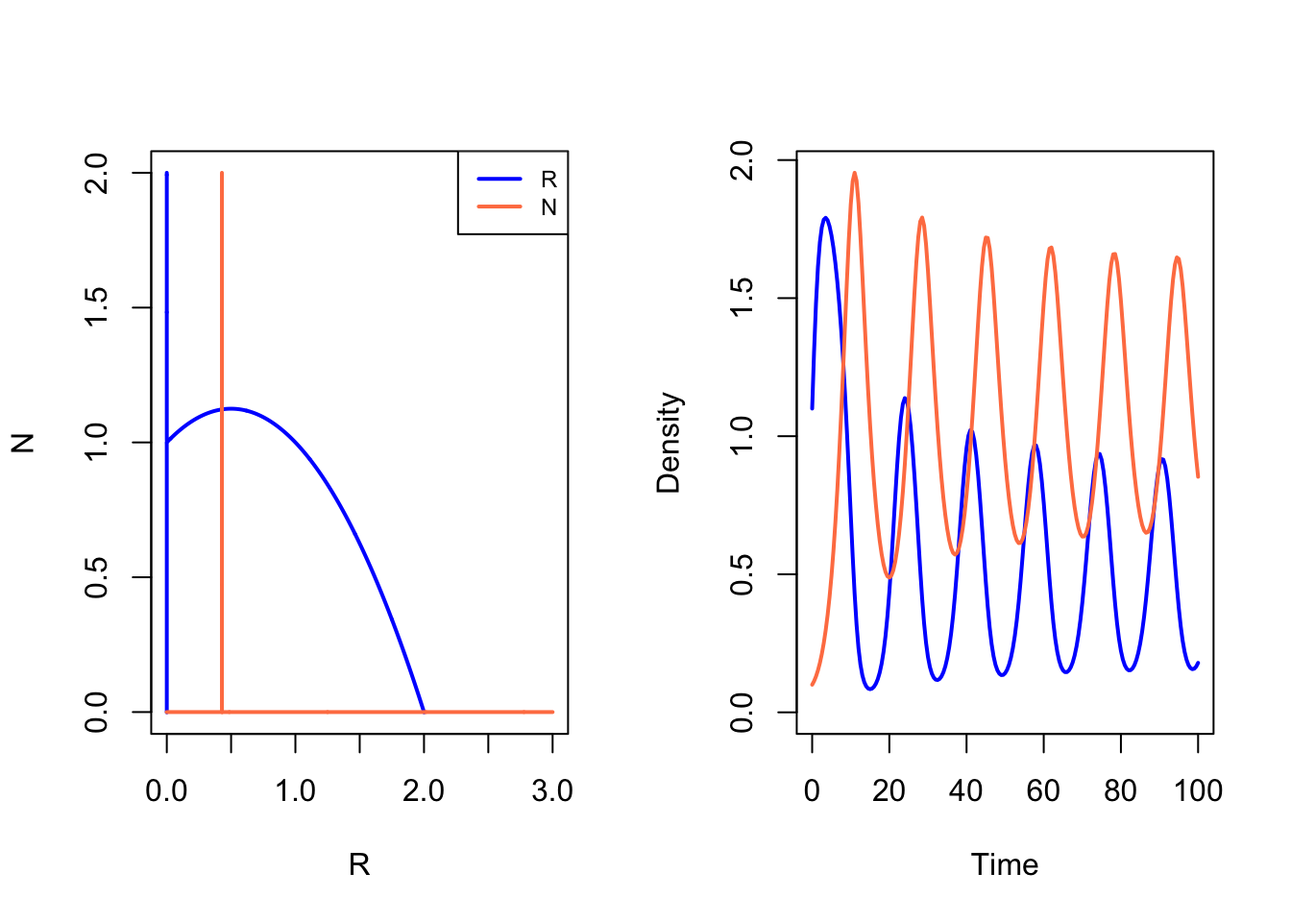
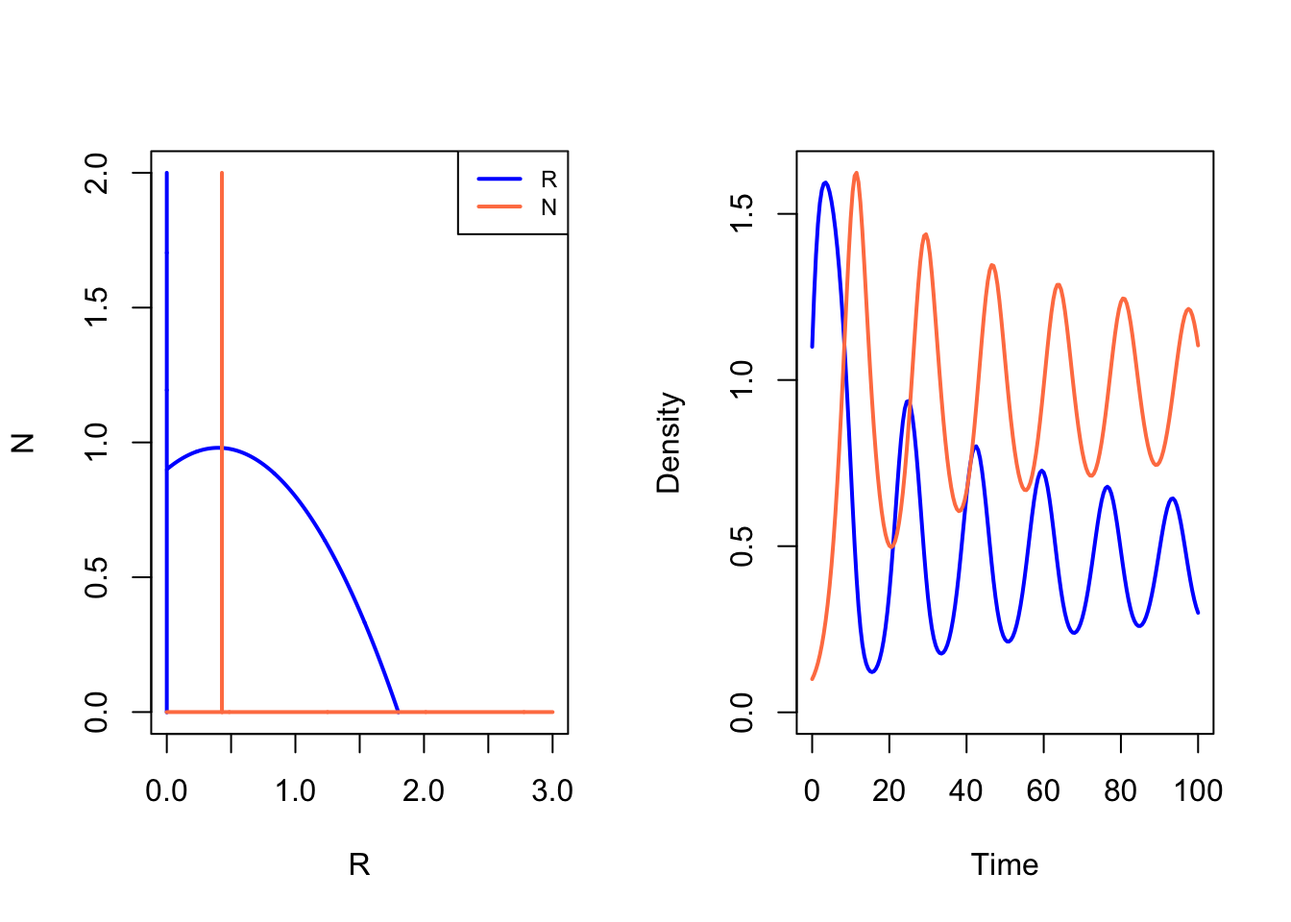
Dispatch book 2025-02-22

diff --git a/Modellen/odes_grind.html b/Modellen/odes_grind.html
@@ -526,7 +526,7 @@ window.Quarto = {
    // }
 </script>
 <p>In <a href="predatorprooi.html" class="quarto-xref"><span>14&nbsp; Predator-prooi interacties</span></a> hebben we een heel beroemd model uit de biologie geanalyseerd: het <em>Lotka-Volterra predator-prooi model</em>. Dit model gaat natuurlijk niet specifiek over konijnen en vossen, maar zou op allerlei systemen toegepast kunnen worden: bacteriofagen die bacteriën infecteren, protozoa die bacteriën eten, lieveheersbeestjes die bladluizen eten, vleermuizen die motjes eten, <em>etc.</em> Naast het predator-prooi model bestaat er ook het <em>Lotka-Volterra competitie model</em> (waar we in het volgende hoofdstuk naar gaan kijken). Zodoende is het Lotka-Volterra model uitgegroeid tot één van de meest veelzijdige modellen in de biologie, waarmee voorspellingen gedaan kunnen worden over welke soorten wel/niet kunnen samenleven.</p>
-<p>We hebben gezien hoe met behulp van faseruimtes het relatief eenvoudig kan zijn om inzicht in een biologisch proces te vergaten. Maar de eenvoud van deze eerdere analyses is deels te verklaren door de eenvoud van het model dat we hebben gebruikt. Hoe meer interacties we willen begrijpen, hoe moeilijker het zal worden om met pen en papier te werk te gaan. Daarom gaan we leren om ODEs door te rekenen met het Rscript <code>grind.R</code>, waarmee je eenvoudig faseruimtes en grafiekjes van de dynamica van variabelen kan plotten.</p>
+<p>We hebben gezien hoe met behulp van faseruimtes het relatief eenvoudig kan zijn om inzicht in een biologisch proces te vergaren. Maar de eenvoud van deze eerdere analyses is deels te verklaren door de eenvoud van het model dat we hebben gebruikt. Hoe meer interacties we willen begrijpen, hoe moeilijker het zal worden om met pen en papier te werk te gaan. Daarom gaan we leren om ODEs door te rekenen met het Rscript <code>grind.R</code>, waarmee je eenvoudig faseruimtes en grafiekjes van de dynamica van variabelen kan plotten.</p>
 <div class="quarto-figure quarto-figure-center">
 <figure class="figure">
 <div class="quarto-figure quarto-figure-center">
@@ -551,13 +551,13 @@ window.Quarto = {
 <p>In ons eerdere Lotka-Volterra model namen we aan dat predatie lineair proportioneel is aan de dichtheden van de predator en prooi. Dit deden we door gebruik te maken van een simpele predatieterm: <span class="math inline">\(aRN\)</span>. Mede dankzij deze eenvoud waren de nullclines zo eenvoudig: een stel rechte lijnen waarvan het makkelijk te bepalen is waar/of ze snijden. Echter heeft deze eenvoud ook zijn beperkingen. Dit lineaire verband betekent dat per predator (ookwel: <em>per capita</em>) in totaal <span class="math inline">\(aR\)</span> prooi gegeten kan worden (nogmaals, “per” kun je lezen als “gedeeld door”, dus <span class="math inline">\(\frac{aRN}{N} = aR\)</span>). Bij oneindig hoge prooidichtheden, kan elke predator dus oneindig veel prooi eten. In het echt zal een predator eigenlijk een tijd bezig zijn met het verwerken en verteren van de prooi. Zodoende zal de predatie-term bij hele hoge prooi-dichtheden eigenlijk moeten verzadigen. Om dit te bestuderen met ons model, zouden we de predatie-term aan kunnen passen:</p>
 <p><span class="math display">\[\begin{align*}
 \frac{\mathrm{d}\color{#2a53f7}R}{\mathrm{d}t} &amp;= \underbrace{b(1-\frac{\color{#2a53f7}R}{K})\color{#2a53f7}R}_{\text{geboorte prooi}} - \underbrace{d\color{#2a53f7}R}_{\text{sterfte prooi}} - \underbrace{\frac{\color{black}a\color{#2a53f7}R\color{orange}N}{h+\color{#2a53f7}R}}_{\text{nieuwe predatieterm}}\\
-\frac{\mathrm{d}\color{orange}N}{\mathrm{d}t} &amp;= \underbrace{\frac{a\color{#2a53f7}R\color{orange}N}{h+\color{#2a53f7}R\color{black}}}_{\text{geboorte predator}} - \underbrace{\delta \color{orange}N}_{\text{sterfte predator}}
+\frac{\mathrm{d}\color{orange}N}{\mathrm{d}t} &amp;= \underbrace{\frac{c*a\color{#2a53f7}R\color{orange}N}{h+\color{#2a53f7}R\color{black}}}_{\text{geboorte predator}} - \underbrace{\delta \color{orange}N}_{\text{sterfte predator}}
 \end{align*}\]</span></p>
 <p>Wat is met deze nieuwe predator-term de <em>per capita</em> predatie? Dat wil zeggen: hoeveel prooi kan een enkele predator per tijdseenheid opeten? Hiervoor delen we wederom de predatie-term door <span class="math inline">\(N\)</span>, waardoor we functie <span class="math inline">\(\frac{aR}{h+R}\)</span> krijgen. Deze functie wordt de <strong>functionele respons</strong> van de predator genoemd. Om een beeld van deze functie te krijgen, is het handig om deze even te schetsen.</p>
 </section>
 <section id="vorm-van-de-nieuwe-predatieterm" class="level2">
 <h2 class="anchored" data-anchor-id="vorm-van-de-nieuwe-predatieterm">Vorm van de nieuwe predatieterm</h2>
-<p>Laten we eerst even naar de noemer te kijken, en vooral naarde balans tussen <span class="math inline">\(h\)</span> en <span class="math inline">\(R\)</span>. Als <span class="math inline">\(R\)</span> heel klein is, heeft <span class="math inline">\(h\)</span> de overhand in de noemer, waardoor <span class="math inline">\(R\)</span> verwaarloosbaar is. Dus voor kleine <span class="math inline">\(R\)</span> nadert de functie <span class="math inline">\(\frac{aR}{h}\)</span>, wat een lineaire toename is. Dus voor kleine prooi-dichtheden, neemt predatie lineair toe met de prooi-dichtheid, net zoals in het eerdere model. Maar als <span class="math inline">\(R\)</span> alsmaar groter wordt, wordt <span class="math inline">\(h\)</span> juist verwaarloosbaar ten opzichte van <span class="math inline">\(R\)</span>. Daarom nadert deze functie bij hoge <span class="math inline">\(R\)</span> de waarde <span class="math inline">\(\frac{aR}{R} = a\)</span>. Dus: zelfs bij hele hoge prooidichtheiden kan een enkele predator per tijdseenheid (bijv. per dag) hoogstens <span class="math inline">\(a\)</span> prooi eten. Tussen deze twee extreme waarden zit nog een laatste bijzondere punt: het punt waar <span class="math inline">\(R\)</span> precies gelijk is aan <span class="math inline">\(h\)</span>. Op dit punt is de functie gelijk aan <span class="math inline">\(\frac{aR}{R+R}=\frac{aR}{2R}=\frac{a}{2}\)</span>. De parameter <span class="math inline">\(h\)</span> geeft dus de prooi-dichtheid waar de predatieterm half-maximaal is. Nu kunnen we de functie schetsen, zoals weergegeven in <a href="#fig-predatieterm-1" class="quarto-xref">Figuur&nbsp;<span>1 (a)</span></a>.</p>
+<p>Laten we eerst even naar de noemer te kijken, en vooral naar de balans tussen <span class="math inline">\(h\)</span> en <span class="math inline">\(R\)</span>. Als <span class="math inline">\(R\)</span> heel klein is, heeft <span class="math inline">\(h\)</span> de overhand in de noemer, waardoor <span class="math inline">\(R\)</span> verwaarloosbaar is. Dus voor kleine <span class="math inline">\(R\)</span> nadert de functie <span class="math inline">\(\frac{aR}{h}\)</span>, wat een lineaire toename is. Dus voor kleine prooi-dichtheden, neemt predatie lineair toe met de prooi-dichtheid, net zoals in het eerdere model. Maar als <span class="math inline">\(R\)</span> alsmaar groter wordt, wordt <span class="math inline">\(h\)</span> juist verwaarloosbaar ten opzichte van <span class="math inline">\(R\)</span>. Daarom nadert deze functie bij hoge <span class="math inline">\(R\)</span> de waarde <span class="math inline">\(\frac{aR}{R} = a\)</span>. Dus: zelfs bij hele hoge prooidichtheiden kan een enkele predator per tijdseenheid (bijv. per dag) hoogstens <span class="math inline">\(a\)</span> prooi eten. Tussen deze twee extreme waarden zit nog een laatste bijzondere punt: het punt waar <span class="math inline">\(R\)</span> precies gelijk is aan <span class="math inline">\(h\)</span>. Op dit punt is de functie gelijk aan <span class="math inline">\(\frac{aR}{R+R}=\frac{aR}{2R}=\frac{a}{2}\)</span>. De parameter <span class="math inline">\(h\)</span> geeft dus de prooi-dichtheid waar de predatieterm half-maximaal is. Nu kunnen we de functie schetsen, zoals weergegeven in <a href="#fig-predatieterm-1" class="quarto-xref">Figuur&nbsp;<span>1 (a)</span></a>.</p>
 </section>
 <section id="hill-functies" class="level2">
 <h2 class="anchored" data-anchor-id="hill-functies">Hill-functies</h2>
@@ -740,7 +740,7 @@ Tip&nbsp;1: Veel gebruikte Hill-functies
 <div class="cell">
 <div class="sourceCode cell-code" id="cb6"><pre class="sourceCode numberSource r number-lines code-with-copy"><code class="sourceCode r"><span id="cb6-1"><a href="#cb6-1"></a>model <span class="ot">&lt;-</span> <span class="cf">function</span>(t, state, parms) {</span>
 <span id="cb6-2"><a href="#cb6-2"></a>  <span class="fu">with</span>(<span class="fu">as.list</span>(<span class="fu">c</span>(state,parms)), {</span>
-<span id="cb6-3"><a href="#cb6-3"></a>    dR <span class="ot">&lt;-</span> r<span class="sc">*</span>R<span class="sc">*</span>(<span class="dv">1</span> <span class="sc">-</span> R<span class="sc">/</span>K) <span class="sc">-</span> a<span class="sc">*</span>R<span class="sc">*</span>N<span class="sc">/</span>(R<span class="sc">+</span>h)</span>
+<span id="cb6-3"><a href="#cb6-3"></a>    dR <span class="ot">&lt;-</span> b<span class="sc">*</span>R<span class="sc">*</span>(<span class="dv">1</span> <span class="sc">-</span> R<span class="sc">/</span>K) <span class="sc">-</span>d<span class="sc">*</span>R <span class="sc">-</span> a<span class="sc">*</span>R<span class="sc">*</span>N<span class="sc">/</span>(R<span class="sc">+</span>h)</span>
 <span id="cb6-4"><a href="#cb6-4"></a>    dN <span class="ot">&lt;-</span> c<span class="sc">*</span>a<span class="sc">*</span>R<span class="sc">*</span>N<span class="sc">/</span>(R<span class="sc">+</span>h) <span class="sc">-</span> delta<span class="sc">*</span>N</span>
 <span id="cb6-5"><a href="#cb6-5"></a>    <span class="fu">return</span>(<span class="fu">list</span>(<span class="fu">c</span>(dR, dN)))  </span>
 <span id="cb6-6"><a href="#cb6-6"></a>  }) </span>
@@ -748,7 +748,7 @@ Tip&nbsp;1: Veel gebruikte Hill-functies
 </div>
 <p>En vervolgens geef je de parameters en begin-waarden (<em>initial condition</em>) voor de variabelen aan:</p>
 <div class="cell">
-<div class="sourceCode cell-code" id="cb7"><pre class="sourceCode r code-with-copy"><code class="sourceCode r"><span id="cb7-1"><a href="#cb7-1" aria-hidden="true" tabindex="-1"></a>p <span class="ot">&lt;-</span> <span class="fu">c</span>(<span class="at">r=</span><span class="dv">1</span>,<span class="at">K=</span><span class="dv">1</span>,<span class="at">a=</span><span class="dv">1</span>,<span class="at">c=</span><span class="dv">1</span>,<span class="at">delta=</span><span class="fl">0.3</span>,<span class="at">c=</span><span class="dv">1</span>,<span class="at">h=</span><span class="dv">1</span>)  <span class="co">#parameters</span></span>
+<div class="sourceCode cell-code" id="cb7"><pre class="sourceCode r code-with-copy"><code class="sourceCode r"><span id="cb7-1"><a href="#cb7-1" aria-hidden="true" tabindex="-1"></a>p <span class="ot">&lt;-</span> <span class="fu">c</span>(<span class="at">b=</span><span class="dv">1</span>,<span class="at">d=</span><span class="fl">0.01</span>,<span class="at">K=</span><span class="dv">1</span>,<span class="at">a=</span><span class="dv">1</span>,<span class="at">c=</span><span class="dv">1</span>,<span class="at">delta=</span><span class="fl">0.3</span>,<span class="at">c=</span><span class="dv">1</span>,<span class="at">h=</span><span class="dv">1</span>)  <span class="co">#parameters</span></span>
 <span id="cb7-2"><a href="#cb7-2" aria-hidden="true" tabindex="-1"></a>s <span class="ot">&lt;-</span> <span class="fu">c</span>(<span class="at">R=</span><span class="fl">1.1</span>,<span class="at">N=</span><span class="fl">0.25</span>) <span class="co">#begin-dichtheden van R en N  </span></span>
 <span id="cb7-3"><a href="#cb7-3" aria-hidden="true" tabindex="-1"></a>colors[<span class="dv">1</span>] <span class="ot">=</span> <span class="st">"blue"</span></span>
 <span id="cb7-4"><a href="#cb7-4" aria-hidden="true" tabindex="-1"></a>colors[<span class="dv">2</span>] <span class="ot">=</span> <span class="st">"#FF7F50"</span></span></code><button title="Kopieer naar klembord" class="code-copy-button"><i class="bi"></i></button></pre></div>
@@ -844,12 +844,12 @@ NULL</code></pre>
 <div class="cell">
 <div class="sourceCode cell-code" id="cb17"><pre class="sourceCode numberSource r number-lines code-with-copy"><code class="sourceCode r"><span id="cb17-1"><a href="#cb17-1"></a>model <span class="ot">&lt;-</span> <span class="cf">function</span>(t, state, parms) {</span>
 <span id="cb17-2"><a href="#cb17-2"></a>  <span class="fu">with</span>(<span class="fu">as.list</span>(<span class="fu">c</span>(state,parms)), {</span>
-<span id="cb17-3"><a href="#cb17-3"></a>    dR <span class="ot">&lt;-</span> r<span class="sc">*</span>R<span class="sc">*</span>(<span class="dv">1</span> <span class="sc">-</span> R<span class="sc">/</span>K) <span class="sc">-</span> a<span class="sc">*</span>R<span class="sc">*</span>N<span class="sc">/</span>(R<span class="sc">+</span>h)</span>
+<span id="cb17-3"><a href="#cb17-3"></a>    dR <span class="ot">&lt;-</span> b<span class="sc">*</span>R<span class="sc">*</span>(<span class="dv">1</span> <span class="sc">-</span> R<span class="sc">/</span>K) <span class="sc">-</span> d<span class="sc">*</span>R <span class="sc">-</span> a<span class="sc">*</span>R<span class="sc">*</span>N<span class="sc">/</span>(R<span class="sc">+</span>h)</span>
 <span id="cb17-4"><a href="#cb17-4"></a>    dN <span class="ot">&lt;-</span> c<span class="sc">*</span>a<span class="sc">*</span>R<span class="sc">*</span>N<span class="sc">/</span>(R<span class="sc">+</span>h) <span class="sc">-</span> delta<span class="sc">*</span>N</span>
 <span id="cb17-5"><a href="#cb17-5"></a>    <span class="fu">return</span>(<span class="fu">list</span>(<span class="fu">c</span>(dR, dN)))  </span>
 <span id="cb17-6"><a href="#cb17-6"></a>  }) </span>
 <span id="cb17-7"><a href="#cb17-7"></a>}  </span>
-<span id="cb17-8"><a href="#cb17-8"></a>p <span class="ot">&lt;-</span> <span class="fu">c</span>(<span class="at">r=</span><span class="dv">1</span>,<span class="at">K=</span><span class="dv">2</span>,<span class="at">a=</span><span class="dv">1</span>,<span class="at">c=</span><span class="dv">1</span>,<span class="at">delta=</span><span class="fl">0.3</span>,<span class="at">c=</span><span class="dv">1</span>,<span class="at">h=</span><span class="dv">1</span>)  <span class="co">#parameters</span></span>
+<span id="cb17-8"><a href="#cb17-8"></a>p <span class="ot">&lt;-</span> <span class="fu">c</span>(<span class="at">b=</span><span class="dv">1</span>,<span class="at">d=</span><span class="fl">0.1</span>,<span class="at">K=</span><span class="dv">2</span>,<span class="at">a=</span><span class="dv">1</span>,<span class="at">c=</span><span class="dv">1</span>,<span class="at">delta=</span><span class="fl">0.3</span>,<span class="at">c=</span><span class="dv">1</span>,<span class="at">h=</span><span class="dv">1</span>)  <span class="co">#parameters</span></span>
 <span id="cb17-9"><a href="#cb17-9"></a>s <span class="ot">&lt;-</span> <span class="fu">c</span>(<span class="at">R=</span><span class="fl">1.1</span>,<span class="at">N=</span><span class="fl">0.1</span>) <span class="co">#begin-dichtheden van R en N  </span></span>
 <span id="cb17-10"><a href="#cb17-10"></a></span>
 <span id="cb17-11"><a href="#cb17-11"></a>colors[<span class="dv">1</span>] <span class="ot">=</span> <span class="st">"blue"</span> <span class="co">#optioneel, default = 'red'</span></span>
@@ -867,7 +867,7 @@ NULL</code></pre>
 </div>
 <div class="cell-output cell-output-stdout">
 <pre><code>        R         N 
-0.1792372 0.8530043 </code></pre>
+0.2995413 1.1041111 </code></pre>
 </div>
 </div>
 <p>Door te oefenen met dit R-script, naast de pen en papier opgaven, is het de bedoeling dat je een goed gevoel ontwikkelt voor ODEs: wiskundige modellen die veel in de biologische literatuur voorkomen. Hieronder volgt een korte vraag, om met zowel pen en papier als Grind te oefenen.</p>
@@ -888,7 +888,7 @@ NULL</code></pre>
 <summary>Code</summary>
 <div class="sourceCode cell-code" id="cb19"><pre class="sourceCode r code-with-copy"><code class="sourceCode r"><span id="cb19-1"><a href="#cb19-1" aria-hidden="true" tabindex="-1"></a>model <span class="ot">&lt;-</span> <span class="cf">function</span>(t, state, parms) {</span>
 <span id="cb19-2"><a href="#cb19-2" aria-hidden="true" tabindex="-1"></a>  <span class="fu">with</span>(<span class="fu">as.list</span>(<span class="fu">c</span>(state,parms)), {</span>
-<span id="cb19-3"><a href="#cb19-3" aria-hidden="true" tabindex="-1"></a>    dR <span class="ot">&lt;-</span> r<span class="sc">*</span>R<span class="sc">*</span>(<span class="dv">1</span> <span class="sc">-</span> R<span class="sc">/</span>K) <span class="sc">-</span> a<span class="sc">*</span>R<span class="sc">*</span>N<span class="sc">/</span>(R<span class="sc">+</span>h)</span>
+<span id="cb19-3"><a href="#cb19-3" aria-hidden="true" tabindex="-1"></a>    dR <span class="ot">&lt;-</span> b<span class="sc">*</span>R<span class="sc">*</span>(<span class="dv">1</span> <span class="sc">-</span> R<span class="sc">/</span>K) <span class="sc">-</span> d<span class="sc">*</span>R <span class="sc">-</span> a<span class="sc">*</span>R<span class="sc">*</span>N<span class="sc">/</span>(R<span class="sc">+</span>h)</span>
 <span id="cb19-4"><a href="#cb19-4" aria-hidden="true" tabindex="-1"></a>    dN <span class="ot">&lt;-</span> c<span class="sc">*</span>a<span class="sc">*</span>R<span class="sc">*</span>N<span class="sc">/</span>(R<span class="sc">+</span>h) <span class="sc">-</span> delta<span class="sc">*</span>N</span>
 <span id="cb19-5"><a href="#cb19-5" aria-hidden="true" tabindex="-1"></a>    <span class="fu">return</span>(<span class="fu">list</span>(<span class="fu">c</span>(dR, dN)))  </span>
 <span id="cb19-6"><a href="#cb19-6" aria-hidden="true" tabindex="-1"></a>  }) </span>
@@ -897,19 +897,19 @@ NULL</code></pre>
 <span id="cb19-9"><a href="#cb19-9" aria-hidden="true" tabindex="-1"></a>colors[<span class="dv">1</span>] <span class="ot">=</span> <span class="st">"blue"</span> <span class="co">#optioneel, default = 'red'</span></span>
 <span id="cb19-10"><a href="#cb19-10" aria-hidden="true" tabindex="-1"></a>colors[<span class="dv">2</span>] <span class="ot">=</span> <span class="st">"#FF7F50"</span> <span class="co">#optioneel, default = 'blue'</span></span>
 <span id="cb19-11"><a href="#cb19-11" aria-hidden="true" tabindex="-1"></a></span>
-<span id="cb19-12"><a href="#cb19-12" aria-hidden="true" tabindex="-1"></a>p <span class="ot">&lt;-</span> <span class="fu">c</span>(<span class="at">r=</span><span class="dv">1</span>,<span class="at">K=</span><span class="fl">0.4</span>,<span class="at">a=</span><span class="dv">1</span>,<span class="at">c=</span><span class="dv">1</span>,<span class="at">delta=</span><span class="fl">0.3</span>,<span class="at">c=</span><span class="dv">1</span>,<span class="at">h=</span><span class="dv">1</span>)  <span class="co">#parameters</span></span>
+<span id="cb19-12"><a href="#cb19-12" aria-hidden="true" tabindex="-1"></a>p <span class="ot">&lt;-</span> <span class="fu">c</span>(<span class="at">b=</span><span class="dv">1</span>,<span class="at">d=</span><span class="fl">0.0</span>,<span class="at">K=</span><span class="fl">0.4</span>,<span class="at">a=</span><span class="dv">1</span>,<span class="at">c=</span><span class="dv">1</span>,<span class="at">delta=</span><span class="fl">0.3</span>,<span class="at">c=</span><span class="dv">1</span>,<span class="at">h=</span><span class="dv">1</span>)  <span class="co">#parameters</span></span>
 <span id="cb19-13"><a href="#cb19-13" aria-hidden="true" tabindex="-1"></a>s <span class="ot">&lt;-</span> <span class="fu">c</span>(<span class="at">R=</span><span class="fl">0.7</span>,<span class="at">N=</span><span class="fl">0.2</span>) <span class="co">#begin-dichtheden van R en N  </span></span>
 <span id="cb19-14"><a href="#cb19-14" aria-hidden="true" tabindex="-1"></a><span class="fu">plane</span>(<span class="at">xmax=</span><span class="fl">0.8</span>,<span class="at">ymax=</span><span class="dv">2</span>)</span>
 <span id="cb19-15"><a href="#cb19-15" aria-hidden="true" tabindex="-1"></a><span class="fu">run</span>(<span class="at">tstep=</span><span class="fl">0.5</span>, <span class="at">traject=</span>T,<span class="at">col=</span><span class="st">"grey"</span>)</span>
 <span id="cb19-16"><a href="#cb19-16" aria-hidden="true" tabindex="-1"></a><span class="fu">newton</span>(<span class="at">state=</span><span class="fu">c</span>(<span class="at">R=</span><span class="fl">0.4</span>,<span class="at">N=</span><span class="fl">0.0</span>),<span class="at">plot=</span>T)</span>
 <span id="cb19-17"><a href="#cb19-17" aria-hidden="true" tabindex="-1"></a></span>
-<span id="cb19-18"><a href="#cb19-18" aria-hidden="true" tabindex="-1"></a>p <span class="ot">&lt;-</span> <span class="fu">c</span>(<span class="at">r=</span><span class="dv">1</span>,<span class="at">K=</span><span class="dv">1</span>,<span class="at">a=</span><span class="dv">1</span>,<span class="at">c=</span><span class="dv">1</span>,<span class="at">delta=</span><span class="fl">0.3</span>,<span class="at">c=</span><span class="dv">1</span>,<span class="at">h=</span><span class="dv">1</span>)  <span class="co">#parameters</span></span>
+<span id="cb19-18"><a href="#cb19-18" aria-hidden="true" tabindex="-1"></a>p <span class="ot">&lt;-</span> <span class="fu">c</span>(<span class="at">b=</span><span class="dv">1</span>,<span class="at">d=</span><span class="fl">0.0</span>,<span class="at">K=</span><span class="dv">1</span>,<span class="at">a=</span><span class="dv">1</span>,<span class="at">c=</span><span class="dv">1</span>,<span class="at">delta=</span><span class="fl">0.3</span>,<span class="at">c=</span><span class="dv">1</span>,<span class="at">h=</span><span class="dv">1</span>)  <span class="co">#parameters</span></span>
 <span id="cb19-19"><a href="#cb19-19" aria-hidden="true" tabindex="-1"></a>s <span class="ot">&lt;-</span> <span class="fu">c</span>(<span class="at">R=</span><span class="dv">1</span>,<span class="at">N=</span><span class="dv">1</span>) <span class="co">#begin-dichtheden van R en N  </span></span>
 <span id="cb19-20"><a href="#cb19-20" aria-hidden="true" tabindex="-1"></a><span class="fu">plane</span>(<span class="at">xmax=</span><span class="fl">2.2</span>,<span class="at">ymax=</span><span class="dv">2</span>)</span>
 <span id="cb19-21"><a href="#cb19-21" aria-hidden="true" tabindex="-1"></a><span class="fu">run</span>(<span class="at">tstep=</span><span class="fl">0.5</span>, <span class="at">traject=</span>T,<span class="at">col=</span><span class="st">"grey"</span>)</span>
 <span id="cb19-22"><a href="#cb19-22" aria-hidden="true" tabindex="-1"></a><span class="fu">newton</span>(<span class="at">state=</span><span class="fu">c</span>(<span class="at">R=</span><span class="fl">0.5</span>,<span class="at">N=</span><span class="fl">0.5</span>),<span class="at">plot=</span>T)</span>
 <span id="cb19-23"><a href="#cb19-23" aria-hidden="true" tabindex="-1"></a></span>
-<span id="cb19-24"><a href="#cb19-24" aria-hidden="true" tabindex="-1"></a>p <span class="ot">&lt;-</span> <span class="fu">c</span>(<span class="at">r=</span><span class="dv">1</span>,<span class="at">K=</span><span class="dv">2</span>,<span class="at">a=</span><span class="dv">1</span>,<span class="at">c=</span><span class="dv">1</span>,<span class="at">delta=</span><span class="fl">0.3</span>,<span class="at">c=</span><span class="dv">1</span>,<span class="at">h=</span><span class="dv">1</span>)  <span class="co">#parameters</span></span>
+<span id="cb19-24"><a href="#cb19-24" aria-hidden="true" tabindex="-1"></a>p <span class="ot">&lt;-</span> <span class="fu">c</span>(<span class="at">b=</span><span class="dv">1</span>,<span class="at">d=</span><span class="fl">0.0</span>,<span class="at">K=</span><span class="dv">2</span>,<span class="at">a=</span><span class="dv">1</span>,<span class="at">c=</span><span class="dv">1</span>,<span class="at">delta=</span><span class="fl">0.3</span>,<span class="at">c=</span><span class="dv">1</span>,<span class="at">h=</span><span class="dv">1</span>)  <span class="co">#parameters</span></span>
 <span id="cb19-25"><a href="#cb19-25" aria-hidden="true" tabindex="-1"></a>s <span class="ot">&lt;-</span> <span class="fu">c</span>(<span class="at">R=</span><span class="fl">1.2</span>,<span class="at">N=</span><span class="fl">1.3</span>) <span class="co">#begin-dichtheden van R en N  </span></span>
 <span id="cb19-26"><a href="#cb19-26" aria-hidden="true" tabindex="-1"></a><span class="fu">plane</span>(<span class="at">xmax=</span><span class="fl">2.2</span>,<span class="at">ymax=</span><span class="dv">2</span>)</span>
 <span id="cb19-27"><a href="#cb19-27" aria-hidden="true" tabindex="-1"></a><span class="fu">run</span>(<span class="at">tstep=</span><span class="fl">0.2</span>, <span class="at">traject=</span>T,<span class="at">col=</span><span class="st">"grey"</span>)</span>
@@ -1726,7 +1726,7 @@ window.document.addEventListener("DOMContentLoaded", function (event) {
 </div>
   </div>
 </footer>
-<script>var lightboxQuarto = GLightbox({"openEffect":"zoom","descPosition":"bottom","selector":".lightbox","closeEffect":"zoom","loop":false});
+<script>var lightboxQuarto = GLightbox({"openEffect":"zoom","closeEffect":"zoom","loop":false,"descPosition":"bottom","selector":".lightbox"});
 (function() {
   let previousOnload = window.onload;
   window.onload = () => {

diff --git a/Appendices/antwoorden_modellen.html b/Appendices/antwoorden_modellen.html
@@ -1788,7 +1788,7 @@ I &amp;= -\frac{\delta b}{k \beta^2} + \frac{b - d}{\beta}
 </div>
 <p><strong>i.</strong></p>
 <p>Het aantal gezonde zeehonden in evenwicht is helemaal niet kleiner geworden! De evenwichtswaarde van de hoeveelheid gezonde zeehonden is onafhankelijk van hun geboorte geworden, en wordt alleen bepaald door de ligging van de predatornullcline. Er zijn kennelijk vooral minder zieke zeehonden.</p>
-<p>Mocht je het niet door hebben gehad: dit model is identiek aan het predator-prooi model dat we in dit hoofdstuk hebben besproken. Ook de conclusies komen overeen. Het feit dat de zieke zeehonden niet beïnvloed worden door hun geboorte, is hetzelfde fenomeen als de konijnen een hogere birth rate hadden (bijvoorbeeld door meer te eten te hebben), maar toch niet in populatiegroote toenamen. Maar dit gaat alleen op als er ook daadwerkelijk een infectieziekte (of predator zoals bij de konijnen) aanwezig is. De mogelijke populatiegrootte (draagkracht) zonder ziekte is wel lager als we <span class="math inline">\(b\)</span> halveren.</p>
+<p>Mocht je het niet door hebben gehad: dit model is identiek aan het predator-prooi model dat we in dit hoofdstuk hebben besproken. Ook de conclusies komen overeen. Het feit dat de zieke zeehonden niet beïnvloed worden door hun geboorte, is hetzelfde fenomeen als de konijnen die een hogere birth rate hadden (bijvoorbeeld door meer te eten te hebben), maar toch niet in populatiegroote toenamen. Maar dit gaat alleen op als er ook daadwerkelijk een infectieziekte (of predator zoals bij de konijnen) aanwezig is. De mogelijke populatiegrootte (draagkracht) zonder ziekte is wel lager als we <span class="math inline">\(b\)</span> halveren.</p>
 <p><a href="../Modellen/predatorprooi.html#exr-lvinspace" class="quarto-xref">Oefening&nbsp;<span>14.2</span></a></p>
 <p><strong>a.</strong> De parameter <span class="math inline">\(c\)</span> (zoals uitgelegd voor het Lotka-Volterra predator/prooi model) is gelijk aan 1. Dit betekent dat we aannemen dat de biomassaconversie perfect is. Als er één prooihokje wordt opgegeten leidt dit tot de geboorte van één predatorhokje.</p>
 <p><strong>b.</strong> Ja, de resultaten van de simulatie lijken heel erg op <a href="../Modellen/predatorprooi.html#fig-faseruimteoplossingenlv" class="quarto-xref">Figuur&nbsp;<span>14.3</span></a>. Eerst schommelen de populaties een beetje, maar de schommelingen worden steeds kleiner. Er zijn nog wel wat zeer kleine schommelingen. Dit is vooral doordat het model met <em>kansen</em> werkt.</p>
@@ -1799,12 +1799,7 @@ I &amp;= -\frac{\delta b}{k \beta^2} + \frac{b - d}{\beta}
 <p>Het aantal predatoren neemt niet per se toe, maar er zijn wel sterkere schommelingen in het aantal predatoren. Het aantal prooien lijkt wel af te nemen. Je ziet nu ook duidelijk dat er een soort golven van prooi ontstaan die worden opgegeten door predatoren.</p>
 <p><strong>g.</strong> Met een hele lage death rate hebben de predatoren een hele kleine kans om dood te gaan. Je ziet eerst dat er daardoor bijna geen ruimte meer over is voor de prooi om zich te voort te planten. Hierdoor sterft de prooi na een tijdje uit. Als alle prooi dood is, sterven ook de predatoren langzaam uit (omdat ze geen eten meer hebben). Dit zou niet voor komen in een ODE, omdat daar niet met losse individuen gewerkt wordt. Er zou altijd nog 0.00001 prooi in leven kunnen zijn die daarna weer voort kan planten.</p>
 <p><a href="../Modellen/predatorprooi.html#exr-virusuitbraak" class="quarto-xref">Oefening&nbsp;<span>14.3</span></a></p>
-<p><strong>a.</strong> Alleen susceptible individuen planten zich voort. Zoals je ziet bevat alleen <span class="math inline">\(
-\mathchoice{\frac{\mathrm{d}S}
-{\mathrm{d}t}}{\mathrm{d}S/\mathrm{d}t}
-{\mathrm{d}S/\mathrm{d}t}
-{\mathrm{d}S/\mathrm{d}t}
-\)</span> een birth rate.</p>
+<p><strong>a.</strong> Alleen susceptible individuen planten zich individueel voort. De andere populatie planten kunnen wel groeien, maar alleen dankzij de aanwezigheid van een ander.</p>
 <p><strong>b.</strong> De eenheid van <span class="math inline">\(
 \mathchoice{\frac{\mathrm{d}I}
 {\mathrm{d}t}}{\mathrm{d}I/\mathrm{d}t}
@@ -2930,7 +2925,7 @@ window.document.addEventListener("DOMContentLoaded", function (event) {
 </div>
   </div>
 </footer>
-<script>var lightboxQuarto = GLightbox({"openEffect":"zoom","selector":".lightbox","descPosition":"bottom","closeEffect":"zoom","loop":false});
+<script>var lightboxQuarto = GLightbox({"closeEffect":"zoom","loop":false,"descPosition":"bottom","openEffect":"zoom","selector":".lightbox"});
 (function() {
   let previousOnload = window.onload;
   window.onload = () => {

diff --git a/Modellen/predatorprooi.html b/Modellen/predatorprooi.html
@@ -604,7 +604,7 @@ Figuur&nbsp;14.2: Eenvoudige functies die we kunnen gebruiken in een predator/pr
 \frac{\mathrm{d}\color{#ff7700}N}{\mathrm{d}t} &amp;= \underbrace{ca{\color{#2d43fc}R}\color{#ff7700}N}_{\text{geboorte vossen}} - \underbrace{\delta \color{#ff7700}N}_{\text{sterfte vossen}}
 \end{align*}
 \tag{14.1}\]</span></span></p>
-<p><a href="#eq-vossen-konijnen" class="quarto-xref">Vergelijking&nbsp;<span>14.1</span></a> bestaat uit 2 ODEs, en wordt een 2 dimensioneel (2D) ODE systeem genoemd. We spreken van een <strong>systeem van differentiaalvergelijkingen</strong> wanneer de variabelen in elkaars vergelijking terugkomen, waardoor de dynamica van de variabelen gekoppeld (en niet onafhankelijk) is. Hierbij nemen we dus aan dat de organismen in hetzelfde (eco)systeem voorkomen, want konijnen op de Veluwe en konijnen op een eiland in Zweden beïnvloeden elkaar niet (tenzij ze het vliegtuig nemen).</p>
+<p>Het bovenstaande model staat bekend als het <strong>Lotka-Volterra predator-prooi model</strong>, vernoemd naar de ontdekkers Alfred Lotka en Vito Volterra. De vergelijking bestaat uit 2 ODEs die van elkaar afhankelijk zijn, en wordt daarom een 2 dimensioneel (2D) ODE systeem genoemd. We spreken van een <strong>systeem van differentiaalvergelijkingen</strong> wanneer de variabelen in elkaars vergelijking terugkomen, waardoor de dynamica van de variabelen gekoppeld (en niet onafhankelijk) is. Hierbij nemen we dus aan dat de organismen in hetzelfde (eco)systeem voorkomen, want konijnen op de Veluwe en konijnen op een eiland in Zweden beïnvloeden elkaar niet (tenzij ze het vliegtuig nemen).</p>
 <p>We zouden het systeem natuurlijk nog verder uit kunnen breiden. We zouden bijvoorbeeld een top predator (adelaars) kunnen toevoegen, en dan hebben we een 3 dimensioneel (3D) ODE systeem<a href="#fn1" class="footnote-ref" id="fnref1" role="doc-noteref"><sup>1</sup></a>. We zouden zelfs een heel ecosysteem kunnen opbouwen, en een 10D of 100D systeem bestuderen. Voor deze “hoogdimensionele” systemen kunnen we vaak alleen numeriek (met de computer) uitrekenen wat er gebeurt. Maar voor 2D systemen kunnen we nog best veel met pen en papier voor elkaar krijgen.</p>
 </section>
 <section id="evenwichtsanalyse-van-2d-systemen" class="level2" data-number="14.3">
@@ -1205,7 +1205,7 @@ N &amp;= S+I+R\\
 \end{align}\]</span></p>
 <p>Bekijk de vergelijkingen hierboven.</p>
 <ol type="a">
-<li><p>Planten alle individuen (susceptible, infected, recovered) zich voort?</p></li>
+<li><p>Welke van de drie individuen (susceptible, infected, recovered) kan zich individueel voortplanten?</p></li>
 <li><p>In welke eenheden wordt de <span class="math inline">\(\delta\)</span> parameter uitgedrukt? Wat is de biologische interpretatie van deze parameter?</p></li>
 </ol>
 <p>Aangenomen dat de parameters positief zijn (en dat de infectie zich kan verspreiden), kunnen we een oplossing met de computer doorrekenen. Omdat dit 3 ODEs zijn, geeft dit ook 3 grafiekjes (zie Figuur hieronder).</p>
@@ -1948,7 +1948,7 @@ window.document.addEventListener("DOMContentLoaded", function (event) {
 </div>
   </div>
 </footer>
-<script>var lightboxQuarto = GLightbox({"selector":".lightbox","descPosition":"bottom","loop":false,"openEffect":"zoom","closeEffect":"zoom"});
+<script>var lightboxQuarto = GLightbox({"selector":".lightbox","descPosition":"bottom","closeEffect":"zoom","loop":false,"openEffect":"zoom"});
 (function() {
   let previousOnload = window.onload;
   window.onload = () => {

diff --git a/Appendices/antwoorden_wiskunde.html b/Appendices/antwoorden_wiskunde.html
@@ -1498,7 +1498,7 @@ window.document.addEventListener("DOMContentLoaded", function (event) {
 </div>
   </div>
 </footer>
-<script>var lightboxQuarto = GLightbox({"descPosition":"bottom","openEffect":"zoom","closeEffect":"zoom","selector":".lightbox","loop":false});
+<script>var lightboxQuarto = GLightbox({"descPosition":"bottom","selector":".lightbox","closeEffect":"zoom","loop":false,"openEffect":"zoom"});
 (function() {
   let previousOnload = window.onload;
   window.onload = () => {

diff --git a/Modellen/competitie.html b/Modellen/competitie.html
@@ -1834,7 +1834,7 @@ window.document.addEventListener("DOMContentLoaded", function (event) {
 </div>
   </div>
 </footer>
-<script>var lightboxQuarto = GLightbox({"loop":false,"openEffect":"zoom","descPosition":"bottom","closeEffect":"zoom","selector":".lightbox"});
+<script>var lightboxQuarto = GLightbox({"openEffect":"zoom","selector":".lightbox","loop":false,"descPosition":"bottom","closeEffect":"zoom"});
 (function() {
   let previousOnload = window.onload;
   window.onload = () => {

diff --git a/Modellen/dichtheidseffecten.html b/Modellen/dichtheidseffecten.html
@@ -1487,7 +1487,7 @@ window.document.addEventListener("DOMContentLoaded", function (event) {
 </div>
   </div>
 </footer>
-<script>var lightboxQuarto = GLightbox({"closeEffect":"zoom","descPosition":"bottom","openEffect":"zoom","selector":".lightbox","loop":false});
+<script>var lightboxQuarto = GLightbox({"selector":".lightbox","openEffect":"zoom","closeEffect":"zoom","loop":false,"descPosition":"bottom"});
 (function() {
   let previousOnload = window.onload;
   window.onload = () => {

diff --git a/Modellen/exciteerbaremedia.html b/Modellen/exciteerbaremedia.html
@@ -1701,7 +1701,7 @@ window.document.addEventListener("DOMContentLoaded", function (event) {
 </div>
   </div>
 </footer>
-<script>var lightboxQuarto = GLightbox({"descPosition":"bottom","openEffect":"zoom","closeEffect":"zoom","selector":".lightbox","loop":false});
+<script>var lightboxQuarto = GLightbox({"openEffect":"zoom","closeEffect":"zoom","descPosition":"bottom","selector":".lightbox","loop":false});
 (function() {
   let previousOnload = window.onload;
   window.onload = () => {

diff --git a/Modellen/exponentielegroei.html b/Modellen/exponentielegroei.html
@@ -1486,7 +1486,7 @@ window.document.addEventListener("DOMContentLoaded", function (event) {
 </div>
   </div>
 </footer>
-<script>var lightboxQuarto = GLightbox({"openEffect":"zoom","descPosition":"bottom","loop":false,"selector":".lightbox","closeEffect":"zoom"});
+<script>var lightboxQuarto = GLightbox({"selector":".lightbox","descPosition":"bottom","closeEffect":"zoom","loop":false,"openEffect":"zoom"});
 (function() {
   let previousOnload = window.onload;
   window.onload = () => {

diff --git a/Modellen/intro_modellen.html b/Modellen/intro_modellen.html
@@ -1341,7 +1341,7 @@ window.document.addEventListener("DOMContentLoaded", function (event) {
 </div>
   </div>
 </footer>
-<script>var lightboxQuarto = GLightbox({"loop":false,"descPosition":"bottom","openEffect":"zoom","closeEffect":"zoom","selector":".lightbox"});
+<script>var lightboxQuarto = GLightbox({"openEffect":"zoom","selector":".lightbox","closeEffect":"zoom","descPosition":"bottom","loop":false});
 (function() {
   let previousOnload = window.onload;
   window.onload = () => {

diff --git a/Modellen/odes_basis.html b/Modellen/odes_basis.html
@@ -1822,7 +1822,7 @@ window.document.addEventListener("DOMContentLoaded", function (event) {
 </div>
   </div>
 </footer>
-<script>var lightboxQuarto = GLightbox({"closeEffect":"zoom","selector":".lightbox","openEffect":"zoom","loop":false,"descPosition":"bottom"});
+<script>var lightboxQuarto = GLightbox({"openEffect":"zoom","descPosition":"bottom","selector":".lightbox","closeEffect":"zoom","loop":false});
 (function() {
   let previousOnload = window.onload;
   window.onload = () => {

diff --git a/Modellen/project.html b/Modellen/project.html
@@ -1190,7 +1190,7 @@ window.document.addEventListener("DOMContentLoaded", function (event) {
 </div>
   </div>
 </footer>
-<script>var lightboxQuarto = GLightbox({"selector":".lightbox","loop":false,"descPosition":"bottom","openEffect":"zoom","closeEffect":"zoom"});
+<script>var lightboxQuarto = GLightbox({"openEffect":"zoom","loop":false,"descPosition":"bottom","closeEffect":"zoom","selector":".lightbox"});
 (function() {
   let previousOnload = window.onload;
   window.onload = () => {

diff --git a/Modellen/reactiediffusie.html b/Modellen/reactiediffusie.html
@@ -1687,7 +1687,7 @@ window.document.addEventListener("DOMContentLoaded", function (event) {
 </div>
   </div>
 </footer>
-<script>var lightboxQuarto = GLightbox({"descPosition":"bottom","selector":".lightbox","closeEffect":"zoom","loop":false,"openEffect":"zoom"});
+<script>var lightboxQuarto = GLightbox({"selector":".lightbox","loop":false,"closeEffect":"zoom","descPosition":"bottom","openEffect":"zoom"});
 (function() {
   let previousOnload = window.onload;
   window.onload = () => {
